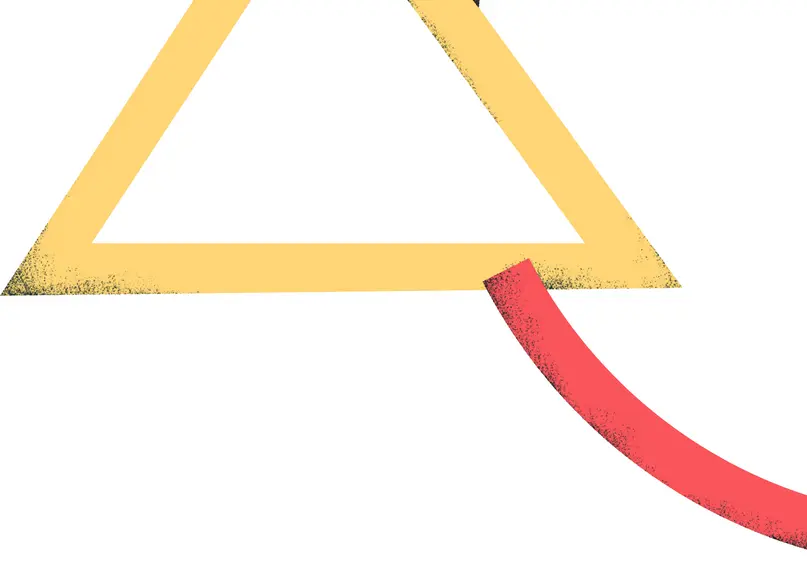
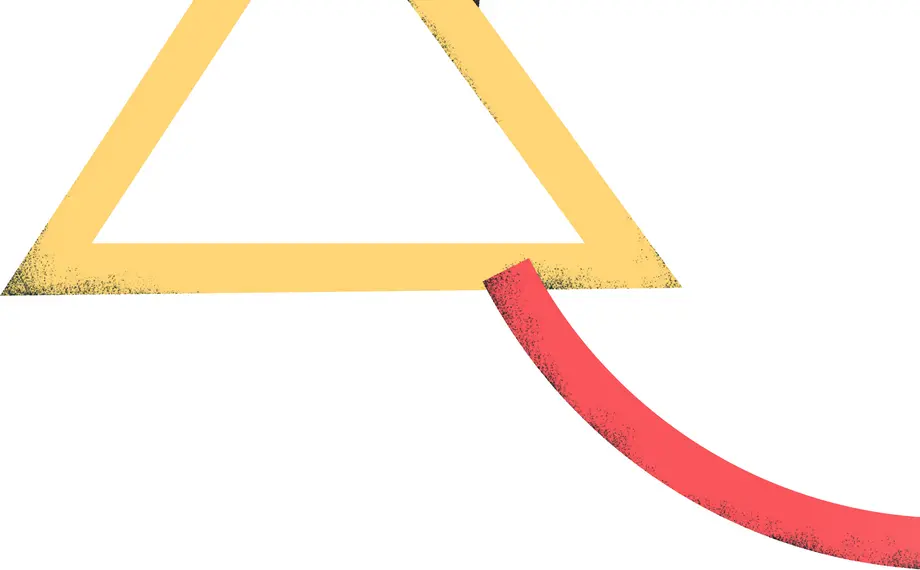
COM-523: перевёл анимацию lottie на cvg

Changed region(s): [[0.4337, 0.0, 1.0, 1.0], [0.0, 0.0, 0.3098, 0.5368], [0.4337, 0.507, 0.4957, 0.5368]]

diff --git a/components/mvp/Process.js b/components/mvp/Process.js
@@ -32,23 +32,29 @@ class Process extends PureComponent {
   }
 
   componentDidMount() {
-    const lottieWeb = import(/* webpackChunkName: "lottie-web" */ 'lottie-web/build/player/lottie_canvas.min')
+    const lottieWeb = import(/* webpackChunkName: "lottie-web" */ 'lottie-web/build/player/lottie_light.min')
     const orbits = import(/* webpackChunkName: "orbits" */ '../../static/json/orbits.json')
     const sputnik = import(/* webpackChunkName: "sputnik" */ '../../static/json/sputnik.json')
 
     Promise.all([lottieWeb, orbits, sputnik]).then(([lottie, orbitsJson, sputnikJson]) => {
       this.orbitsLottie = lottie.loadAnimation({
         container: this.orbitsRef.current,
-        renderer: 'canvas',
+        renderer: 'svg',
         autoplay: false,
         animationData: orbitsJson,
+        rendererSettings: {
+          progressiveLoad: true,
+        },
       })
 
       this.sputnikLottie = lottie.loadAnimation({
         container: this.sputnikRef.current,
-        renderer: 'canvas',
+        renderer: 'svg',
         autoplay: false,
         animationData: sputnikJson,
+        rendererSettings: {
+          progressiveLoad: true,
+        },
       })
       this.handleScroll()
       document.addEventListener('scroll', this.handleScroll)
@@ -78,9 +84,9 @@ class Process extends PureComponent {
           .orbits {
             position: absolute;
             display: block;
-            top: 14rem;
-            left: -16rem;
-            width: 124rem;
+            top: 11rem;
+            left: 2rem;
+            width: 90rem;
           }
 
           .sputnik {
@@ -88,7 +94,7 @@ class Process extends PureComponent {
             display: block;
             top: -2rem;
             left: -8rem;
-            right: -10rem;
+            right: -34rem;
           }
 
           div {
@@ -120,9 +126,9 @@ class Process extends PureComponent {
             }
 
             .orbits {
-              top: 14rem;
-              left: -30rem;
-              width: 126rem;
+              top: 15rem;
+              left: -11rem;
+              width: 90rem;
             }
 
             .sputnik {
@@ -146,8 +152,8 @@ class Process extends PureComponent {
 
             .orbits {
               top: 14rem;
-              left: -32rem;
-              width: 126rem;
+              left: -13rem;
+              width: 90rem;
             }
 
             .sputnik {
@@ -171,9 +177,9 @@ class Process extends PureComponent {
             }
 
             .orbits {
-              top: 11rem;
-              left: -29rem;
-              width: 107rem;
+              top: 12rem;
+              left: -10rem;
+              width: 72rem;
             }
 
             .sputnik {
@@ -197,9 +203,9 @@ class Process extends PureComponent {
             }
 
             .orbits {
-              top: 13rem;
-              left: -23rem;
-              width: 54rem;
+              top: 14rem;
+              left: -15rem;
+              width: 38rem;
             }
 
             .sputnik {

diff --git a/components/mvp/Begin.js b/components/mvp/Begin.js
@@ -28,7 +28,7 @@ const picture = css.resolve`
   @media (min-width: 1024px) and (max-width: 1279px) {
     picture {
       left: 20.5%;
-      width: 50.43rem;
+      width: 57.5rem;
     }
   }
 
